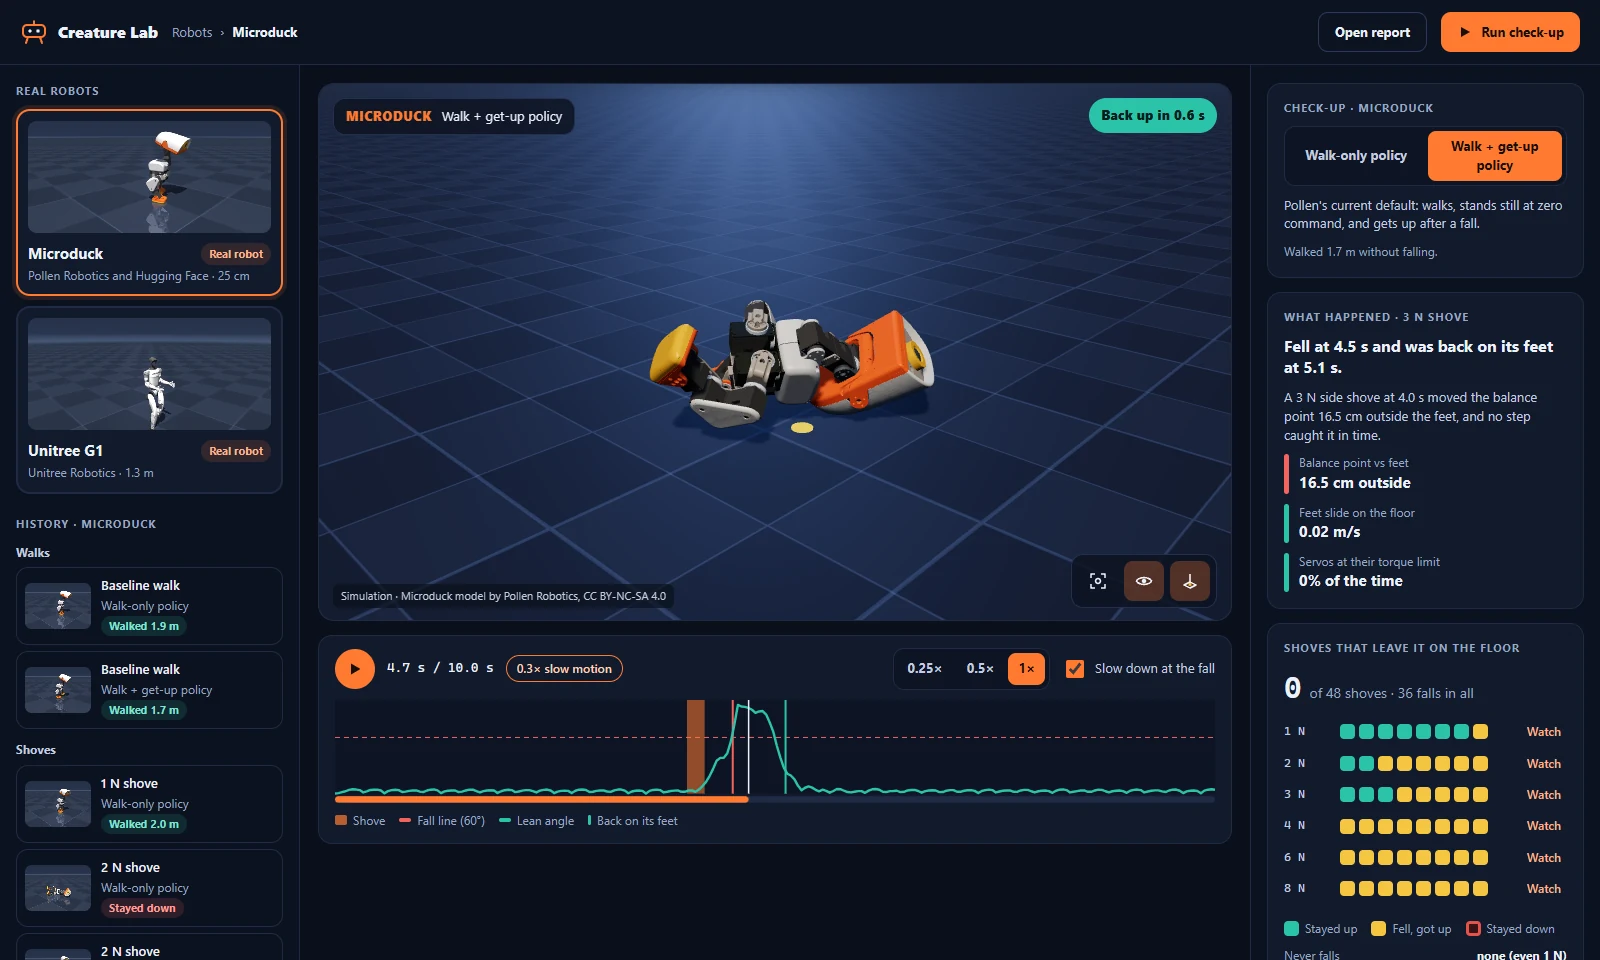
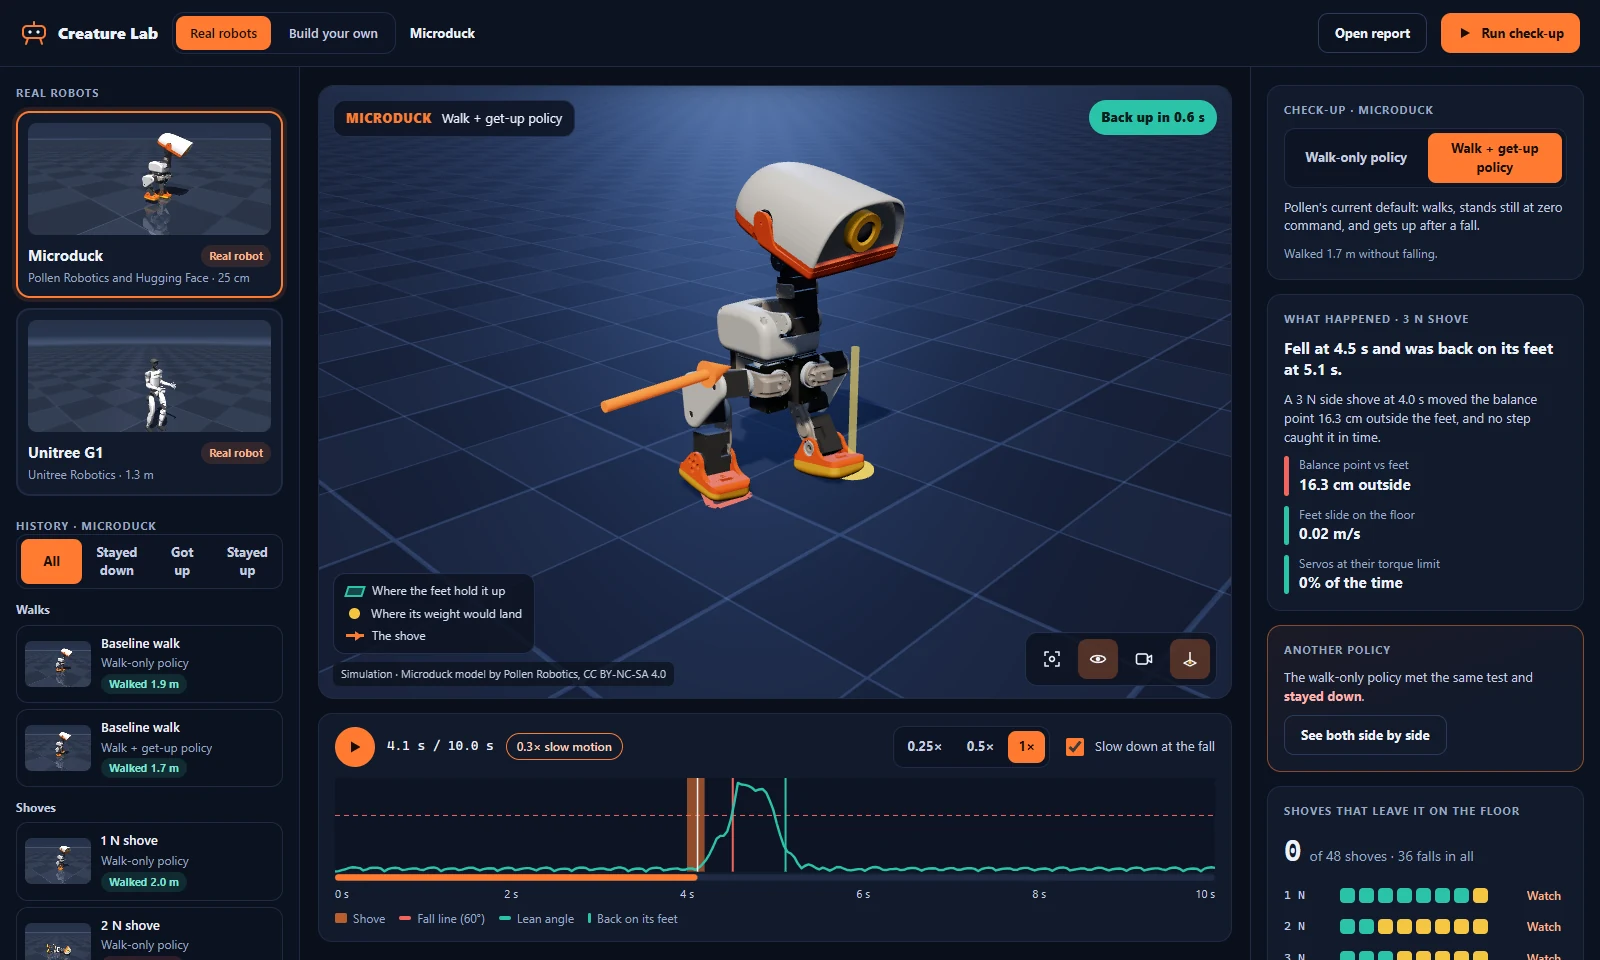
Serve the app from the Docker image and document the second browser app pass

diff --git a/docs/WEB_APP.md b/docs/WEB_APP.md
@@ -32,27 +32,38 @@ build editor.
   shown is a middle-strength shove that the robot got up from. Playback slows to 0.3x through
   the shove and the fall, as in the films; you can switch that off, pause, scrub, or change speed
   (arrow keys, Home and End work on the timeline).
-- **See why.** Teal and red outlines show the feet's support area, the amber disc is where the
-  body's weight would land, and the orange arrow is the shove. The panel on the right states the
-  cause in words with the three numbers behind it.
-- **Compare policies.** Switch between a robot's policies and open any shove in the matrix.
-  Every card in the history is a run you can watch.
+- **See why.** The teal area on the floor is where the feet hold the robot up; it turns red when
+  the yellow dot, where the body's weight would land, leaves it. The orange arrow is the shove. A
+  legend sits on the view, and the panel on the right states the cause in words with the numbers
+  behind it.
+- **Try the fix.** When a run has a twin under the robot's other policy (same shove, same floor),
+  a *Can it be fixed?* panel offers *See both side by side*: two views on one clock, both lean
+  angles on one timeline, and a sentence saying which policy did better. Back goes back to one
+  view.
+- **Find a run.** The history can be filtered by how runs ended (stayed down, got up, stayed
+  up). Each view has an address you can bookmark or reload; the back button works.
 - **Run a check-up.** *Run check-up* starts the same run as `creature-lab robots checkup` in the
-  background and shows its progress (about two minutes). When it finishes, the app opens the new
-  results. If you reload the page meanwhile, it picks the running job up again.
+  background and shows its progress (about two minutes). If you reload the page meanwhile, it
+  picks the running job up again. If you are watching a run when it finishes, you are told, not
+  moved.
 - **Open the report.** *Open report* shows the HTML report of the newest check-up, with its film.
-- **Build your own.** This opens the classic build editor for your own creature (it needs the
-  `sim` and `viz` extras).
+- **Save a clip.** The camera button on the 3D view records the run from a moment before the
+  shove to two seconds after the outcome, slow motion included, with the credit line on the
+  video, and saves it as a WebM file.
+- **Build your own.** Pick a quadruped, hexapod, worm or humanoid, reshape it with sliders, and
+  see it in 3D as you move them. *Run simulation* runs it toward a goal (move forward, reach a
+  target, stay balanced) with its packaged gait and shows what happened. *Open the classic
+  editor* starts the part-by-part editor in a second tab (it needs the `sim` and `viz` extras).
 
 Everything works from the keyboard: the first Tab stop is a skip link to the 3D view, the run
 history is one stop (arrow keys move between runs), and the timeline takes the arrow keys, Home
-and End.
+and End. If your system asks for reduced motion, runs wait for you to press play.
 
 ## How it is built
 
 | Part | Where | Notes |
 | --- | --- | --- |
-| Server | `creature_lab/web/` | FastAPI. `library.py` reads saved check-ups, `scene.py` turns a MuJoCo model and a run into binary arrays, `jobs.py` runs downloads and check-ups, `thumbs.py` renders cached thumbnails, `builder.py` starts the classic editor. |
+| Server | `creature_lab/web/` | FastAPI. `library.py` reads saved check-ups, `scene.py` turns a MuJoCo model and a run into binary arrays, `jobs.py` runs downloads and check-ups, `thumbs.py` renders cached thumbnails, `creatures.py` builds and runs the creatures designed in the browser, `builder.py` starts the classic editor. |
 | Front end | `web-ui/` | React, three.js, Vite and TypeScript. |
 | Built bundle | `creature_lab/web/static/` | **Committed**, so users never need Node. Rebuild it after changing `web-ui/` (see [web-ui/README.md](../web-ui/README.md)); CI fails when it is stale. |
 
@@ -79,5 +90,11 @@ The app is meant for your own machine.
 ## Limits
 
 - It shows simulations of the robots, not the hardware.
-- Software WebGL (a machine without a GPU) draws it, but slowly.
-- Building a creature is still the classic Viser editor, opened in a second tab.
+- On a computer without graphics acceleration the 3D view switches to a simplified drawing (no
+  shadows, normal resolution) and says so.
+- The area "where the feet hold it up" is the footprint of the feet touching the floor. For
+  Microduck, whose feet are meshes, that is the part of each sole within 6 mm of the floor.
+- The designer builds the four presets only. Adding or removing parts, joints and motors is
+  the classic editor's job.
+- Repeated check-ups of the same robot give the same results (the simulation is deterministic),
+  so the app shows the newest one instead of a history of them.

diff --git a/docs/KNOWN_ISSUES.md b/docs/KNOWN_ISSUES.md
@@ -9,8 +9,9 @@ already shipped.
 | --- | --- | --- | --- |
 | Robot check-up results are for the simulated robot, not the hardware | `creature_lab/robots/` | Accepted | Microduck's policies were trained in MuJoCo Warp; Creature Lab runs them in CPU MuJoCo through a reimplemented XL330 servo model (`robots/actuator.py`, pinned to Rhoban's BAM package by test). Simulated walking speed is below the commanded speed, and absolute shove limits will differ from Pollen's. Compare policies and conditions, not absolute numbers. |
 | The editor's real-robot panel has had no GPU-browser walkthrough | `editor/robot_panel.py`, `editor/robot_stage.py` | Open | The mesh stage, replay and panel logic are unit-tested, and a replay frame was rendered once in headless Edge, whose software WebGL cannot judge the final look. Clicking through Show / Replay / Back in a real browser is still outstanding. |
-| The browser app cannot build a creature | `creature_lab/web/builder.py`, `web-ui/` | Open | **Build your own** starts the classic Viser editor in a second tab (it needs the `sim` and `viz` extras and says so if they are missing). A React editor was not built. |
-| The browser app has been judged in headless Edge only | `web-ui/` | Open | The walkthrough (31 checks) and screenshots ran in headless Edge with software WebGL: layout, playback, license flow and a real check-up from the page. Frame rate and final look on a GPU browser, Firefox and Safari are unchecked. |
+| The in-app designer builds presets only | `creature_lab/web/creatures.py`, `web-ui/src/components/Editor.tsx` | Open | Sliders reshape the four presets and the packaged gait runs them. Adding parts, joints and motors, choosing controllers, and the robustness and qualification tests are the classic Viser editor's (opened from the designer, needs the `sim` and `viz` extras). |
+| The browser app has been checked in Edge only | `web-ui/` | Open | The walkthrough (31 checks), a 160 frames-per-second measurement and screenshots ran in Edge on an NVIDIA GPU, and in software WebGL. Firefox and Safari, and integrated or older GPUs, are unchecked. Clip recording uses `MediaRecorder` and is hidden where the browser lacks it. |
+| The Docker image serving the app was not built locally | `Dockerfile`, `compose.yaml` | Open | The image now installs the `web` and `robots` extras and starts `creature-lab app`. It was not built on the machine that made the change (no running Docker engine); CI's docker job is the first build. Thumbnails need OpenGL, which the slim image lacks, so cards show a plain tile there; check-ups, replays and reports work. |
 | The front-end bundle must be rebuilt by hand | `web-ui/`, `creature_lab/web/static/` | Accepted | The built bundle is committed so users need no Node. CI rebuilds it and fails when it differs, so a front-end change needs `npm run build` and the new files committed. A rebuild from a clean `npm ci` was byte-identical on Windows; Linux CI is the first cross-platform check. On Windows, npm may skip the `@rolldown` native package, see `web-ui/README.md`. |
 | The shared launchers sync fewer extras than the app needs | `run.ps1`, `run.sh`, `scripts/start.py` | Accepted | The Copier-managed launchers run `uv sync --frozen --extra sim --extra viz`, which removes the `web` and `robots` packages. `scripts/start.py` adds them back (`--inexact`) on every start, from uv's cache. The Docker image still starts the build editor. |
 | Check-up rendering needs OpenGL | `robots/render.py` | Accepted | Headless Linux needs `MUJOCO_GL=egl` or `osmesa`. Analysis and the HTML report need no graphics. Simulation tests skip until the robots are downloaded, so CI does not render. |

diff --git a/README.md b/README.md
@@ -37,9 +37,17 @@ inspect, replay, improve, and share it.
 ```
 
 The launcher opens the app. Choose Microduck or the Unitree G1, watch a saved shove in 3D (slowed
-down at the shove and the fall), read why the robot fell, switch between its policies, or press
-**Run check-up** to run a fresh one. Robots are downloaded after you accept their license. See
+down at the shove and the fall), read why the robot fell, then put the same shove to the other
+policy side by side to see whether the change fixes it. Press **Run check-up** to run a fresh one,
+**Save a clip** to keep a video, or **Build your own** to reshape a quadruped, hexapod, worm or
+humanoid and run it. Robots are downloaded after you accept their license. See
 [Browser app](docs/WEB_APP.md).
+
+<p align="center">
+  <img src="docs/assets/app-compare.webp" width="800" alt="The browser app showing the same 2 N shove on a Microduck twice: with the walk-only policy it stays on the floor, with the walk-and-get-up policy it stays on its feet. The lean angle of both is drawn on one timeline." />
+</p>
+
+<p align="center"><sub>The same shove, two policies, one clock (simulation). Microduck model by Pollen Robotics, CC BY-NC-SA 4.0.</sub></p>
 
 ## Robot check-up from the command line
 
@@ -87,10 +95,11 @@ cd Creature-Lab
 ```
 
 On Windows, use `.\run.bat`. The launcher sets up the environment and opens the
-[browser app](docs/WEB_APP.md). To design your own creature instead, press **Build your own**
-there, or start the build editor directly with `python scripts/start.py --creature quadruped`.
-In the build editor, pick a creature and goal, then click **Run first simulation**. Watch the
-replay, inspect the result, and use **Back to design** to make a change. Use **Explain failure** to run a
+[browser app](docs/WEB_APP.md). To design your own creature, press **Build your own** there. For
+part-by-part editing, use the classic build editor: **Open the classic editor** in the app, or
+`python scripts/start.py --creature quadruped`. In the classic editor, pick a creature and goal,
+then click **Run first simulation**. Watch the replay, inspect the result, and use **Back to
+design** to make a change. Use **Explain failure** to run a
 counterfactual analysis, compare saved runs in History, and download its report
 and experiment pack.
 
@@ -117,7 +126,8 @@ If launch fails, try `python scripts/start.py --dry-run` and
 `uv run creature-lab doctor`.
 
 The launchers also accept `doctor`, `repair`, `docker`, `logs`, and `stop`.
-Docker binds the editor to localhost and keeps runs and outputs in named volumes.
+Docker serves the browser app on localhost and keeps runs, outputs and downloaded robots in named
+volumes.
 
 ## Next steps
 

diff --git a/CHANGELOG.md b/CHANGELOG.md
@@ -28,6 +28,21 @@
   again (`GET /api/jobs`); the report opens with its film (served under `/report/`); the history
   is one keyboard stop (arrow keys, plus a skip link); an unreachable server offers **Try again**;
   and the 3D view draws only when something changed.
+- Browser app, second pass: the support area is a filled teal (or red) floor patch with a legend,
+  the weight point has a plumb line, and both policies can be shown side by side on one clock
+  and one timeline with a **Can it be fixed?** panel; the history can be filtered; every view has
+  an address and the back button works; **Save a clip** records the run as a WebM with the credit
+  line; **Build your own** is now a designer inside the app (sliders, 3D preview, run, result)
+  with the classic editor one click away; the 3D view simplifies itself without a GPU and
+  respects reduced motion; a finished check-up no longer moves you off the run you are watching.
+- Fix the Microduck's support area: MuJoCo reports a mesh foot touching at a few points
+  millimetres apart, so the outline was a point. It is now the sole of the foot (the part within
+  6 mm of the floor), which makes "balance point vs feet" margins a little more accurate. The
+  headline results are unchanged (34 of 48 shoves leave the walk-only policy on the floor, 0 of 48
+  for the get-up policy). A walk that went nowhere after a shove reads "Stayed up, barely moved"
+  instead of "Walked -0.2 m".
+- The Docker image now serves the browser app (with the `web` and `robots` extras and a volume for
+  downloaded robots); `creature-lab app` honours `CREATURE_LAB_HOST` like `build` and `demo`.
 - `build --preset NAME` (and **Build your own** in the app) opens the editor on that creature;
   it used to open on the Microduck whenever the robot was downloaded. `doctor` now reports
   whether the browser app's extras are installed.

diff --git a/AGENTS.md b/AGENTS.md
@@ -83,8 +83,9 @@ uv run creature-lab validate examples/tripod.json --task examples/crawl_forward.
   `report.py` and `catalog.py` are numpy-only; MuJoCo stays in `rollout.py`, `render.py` and
   the per-robot modules.
 - `creature_lab/web/` is the browser app's local server (optional `web` extra, FastAPI). It
-  reads saved check-ups, serves meshes and poses as binary arrays, and starts downloads and
-  check-ups as jobs. It listens on loopback only and guards against DNS rebinding and
+  reads saved check-ups, serves meshes and poses as binary arrays, builds and runs the preset
+  creatures designed in the browser (`creatures.py`, on the same mesh and pose streams), and
+  starts downloads and check-ups as jobs. It listens on loopback only and guards against DNS rebinding and
   cross-origin posts; never accept a file path from the browser. `web-ui/` is its React and
   three.js front end; `npm run build` writes the bundle to `creature_lab/web/static/`, which is
   committed, so rebuild and commit it with any front-end change. Keep `web-ui/src/types.ts`

diff --git a/docs/ROBOT_CHECKUP.md b/docs/ROBOT_CHECKUP.md
@@ -8,7 +8,13 @@ uv sync --inexact --extra robots
 uv run creature-lab robots checkup microduck
 ```
 
-The [browser app](WEB_APP.md) shows the same results in 3D and can start a check-up for you.
+The [browser app](WEB_APP.md) shows the same results in 3D, puts a shove to both policies side by
+side, and can start a check-up for you.
+
+"Balance point vs feet" compares where the body is heading with the area the feet hold it up
+from. That area is the hull of the foot contacts, or, for a mesh foot such as Microduck's, of the
+part of the sole within 6 mm of the floor (MuJoCo reports a mesh touching at a few points
+millimetres apart, which would make a flat foot look like a point).
 
 The first run downloads the robot (about 25 MB) after showing you its license. It then runs
 about fifty ten-second simulations per policy on the CPU (20 to 40 seconds), and writes a folder

diff --git a/docs/assets/MEDIA_LICENSES.md b/docs/assets/MEDIA_LICENSES.md
@@ -3,7 +3,8 @@
 | File | Shows | License |
 | --- | --- | --- |
 | `checkup-microduck.webp`, `.gif`, `.mp4` | Pollen Robotics' Microduck model, rendered by Creature Lab | **CC BY-NC-SA 4.0** |
-| `app-microduck.webp` | Screenshot of the browser app showing Pollen Robotics' Microduck model | **CC BY-NC-SA 4.0** |
+| `app-microduck.webp`, `app-compare.webp` | Screenshots of the browser app showing Pollen Robotics' Microduck model | **CC BY-NC-SA 4.0** |
+| `app-build.webp` | Screenshot of the browser app's creature designer (Creature Lab's own shapes) | Apache-2.0 |
 | `checkup-unitree-g1.webp`, `.gif`, `.mp4` | Unitree Robotics' G1 model, rendered by Creature Lab | BSD 3-Clause model; renders Apache-2.0 |
 | `creature-lab-logo.svg`, `demo.gif`, `quickstart.ipynb` | Creature Lab's own work | Apache-2.0 |
 

diff --git a/docs/BUILD_EDITOR.md b/docs/BUILD_EDITOR.md
@@ -3,8 +3,9 @@
 The build editor is a one-screen workbench, powered by Viser: configure a creature, run it, and
 read its metrics without leaving the browser tab. It uses the same dependency as the replay
 viewer, so it needs no server framework or frontend build step. (The separate
-[browser app](WEB_APP.md) that the launcher opens first is where the real robots live; its
-**Build your own** button starts this editor.)
+[browser app](WEB_APP.md) that the launcher opens first is where the real robots live, and its
+**Build your own** designs preset creatures with sliders; its **Open the classic editor** button
+starts this editor for part-by-part work.)
 
 ## Layout
 

diff --git a/docs/GETTING_STARTED.md b/docs/GETTING_STARTED.md
@@ -30,7 +30,7 @@ python scripts/start.py
 The launcher installs the dependencies (including the `web` and `robots` extras the browser app
 needs), runs `doctor`, and opens the [browser app](WEB_APP.md): pick Microduck or the Unitree G1,
 watch a saved shove, and read why the robot fell. To design your own creature, press **Build your
-own** in the app, or start the build editor directly:
+own** in the app, or for part-by-part editing start the classic build editor directly:
 
 ```bash
 python scripts/start.py --creature quadruped
